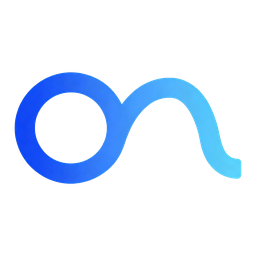
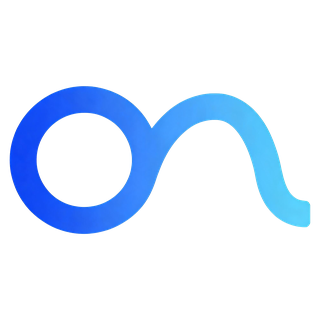
fix(app): air out boot splash with larger monogram
Grow the brand mark, drop crowded stacking, and use a quiet three-dot
progress line instead of the 3x3 ticker on the full-screen boot surface.

diff --git a/apps/app/index.html b/apps/app/index.html
@@ -36,19 +36,22 @@
       body { background: #fff; color: #0f172a; font-family: "IBM Plex Sans", -apple-system, BlinkMacSystemFont, "Segoe UI", sans-serif; }
       html[data-theme="dark"] body { background: #2c2c2c; color: #f8fafc; }
       .onmyagent-static-boot { position: fixed; inset: 0; z-index: 1000; display: flex; align-items: center; justify-content: center; background: inherit; }
-      .onmyagent-static-boot__content { display: flex; width: 100%; max-width: 22rem; flex-direction: column; align-items: center; gap: 1.5rem; padding: 2rem; text-align: center; }
-      /* Bare monogram — no tile border/shadow so the mark reads larger. */
-      .onmyagent-static-boot__mark { display: flex; width: 5.5rem; height: 5.5rem; align-items: center; justify-content: center; border: 0; border-radius: 0; background: transparent; box-shadow: none; }
-      html[data-theme="dark"] .onmyagent-static-boot__mark { border: 0; background: transparent; box-shadow: none; }
-      .onmyagent-static-boot__title { font-size: .875rem; font-weight: 600; letter-spacing: -.01em; }
-      .onmyagent-static-boot__status { display: flex; flex-direction: column; align-items: center; gap: .75rem; }
-      .onmyagent-static-boot__dots { display: flex; gap: .375rem; height: 1rem; align-items: center; }
-      .onmyagent-static-boot__dot { width: .375rem; height: .375rem; border-radius: 999px; background: #64748b; animation: onmyagent-static-boot-pulse 1.2s ease-in-out infinite; }
-      .onmyagent-static-boot__dot:nth-child(2) { animation-delay: .15s; }
-      .onmyagent-static-boot__dot:nth-child(3) { animation-delay: .3s; }
-      .onmyagent-static-boot__message { color: #64748b; font-size: .875rem; line-height: 1.5rem; }
-      @keyframes onmyagent-static-boot-pulse { 0%, 80%, 100% { opacity: .28; transform: scale(.8); } 40% { opacity: 1; transform: scale(1); } }
-      @media (prefers-reduced-motion: reduce) { .onmyagent-static-boot__dot { animation: none; opacity: .7; } }
+      /* Generous vertical rhythm: hero mark → product name → quiet progress */
+      .onmyagent-static-boot__content { display: flex; width: 100%; max-width: 24rem; flex-direction: column; align-items: center; gap: 2.75rem; padding: 2.5rem 2rem; text-align: center; }
+      .onmyagent-static-boot__mark { display: flex; width: 7.5rem; height: 7.5rem; align-items: center; justify-content: center; border: 0; background: transparent; box-shadow: none; }
+      html[data-theme="dark"] .onmyagent-static-boot__mark { background: transparent; }
+      .onmyagent-static-boot__status { display: flex; flex-direction: column; align-items: center; gap: 1.25rem; }
+      .onmyagent-static-boot__title { font-size: 1.0625rem; font-weight: 600; letter-spacing: -.02em; line-height: 1.4; }
+      .onmyagent-static-boot__progress { display: flex; flex-direction: column; align-items: center; gap: .875rem; }
+      .onmyagent-static-boot__dots { display: flex; gap: .5rem; height: .75rem; align-items: center; }
+      .onmyagent-static-boot__dot { width: .3125rem; height: .3125rem; border-radius: 999px; background: #94a3b8; animation: onmyagent-static-boot-pulse 1.35s ease-in-out infinite; }
+      .onmyagent-static-boot__dot:nth-child(2) { animation-delay: .18s; }
+      .onmyagent-static-boot__dot:nth-child(3) { animation-delay: .36s; }
+      .onmyagent-static-boot__message { color: #94a3b8; font-size: .8125rem; line-height: 1.25rem; letter-spacing: .01em; }
+      html[data-theme="dark"] .onmyagent-static-boot__dot { background: #6b7280; }
+      html[data-theme="dark"] .onmyagent-static-boot__message { color: #9ca3af; }
+      @keyframes onmyagent-static-boot-pulse { 0%, 80%, 100% { opacity: .22; transform: scale(.85); } 40% { opacity: 1; transform: scale(1); } }
+      @media (prefers-reduced-motion: reduce) { .onmyagent-static-boot__dot { animation: none; opacity: .55; } }
     </style>
   </head>
   <body class="bg-dls-surface text-dls-text mac:bg-transparent">
@@ -60,17 +63,19 @@
           <!-- Compact brand monogram (not the 2k product logo) for first paint. -->
           <img
             src="/onmyagent-boot-mark.png"
-            width="72"
-            height="72"
+            width="112"
+            height="112"
             alt=""
             draggable="false"
-            style="display:block;width:4.5rem;height:4.5rem;object-fit:contain"
+            style="display:block;width:6.5rem;height:6.5rem;object-fit:contain"
           />
         </div>
         <div class="onmyagent-static-boot__status">
           <div class="onmyagent-static-boot__title">OnMyAgent</div>
-          <div class="onmyagent-static-boot__dots" aria-hidden="true"><span class="onmyagent-static-boot__dot"></span><span class="onmyagent-static-boot__dot"></span><span class="onmyagent-static-boot__dot"></span></div>
-          <div class="onmyagent-static-boot__message">Starting OnMyAgent…</div>
+          <div class="onmyagent-static-boot__progress">
+            <div class="onmyagent-static-boot__dots" aria-hidden="true"><span class="onmyagent-static-boot__dot"></span><span class="onmyagent-static-boot__dot"></span><span class="onmyagent-static-boot__dot"></span></div>
+            <div class="onmyagent-static-boot__message">Starting OnMyAgent…</div>
+          </div>
         </div>
       </div>
     </div>

diff --git a/apps/app/src/react-app/shell/load-surface.tsx b/apps/app/src/react-app/shell/load-surface.tsx
@@ -27,15 +27,19 @@ const surfaceClass = {
   fullVisible: "pointer-events-auto opacity-100",
   fullFading: "pointer-events-none opacity-0",
   inset: "flex min-h-[12rem] w-full items-center justify-center py-10",
+  // Hero monogram + airy stack (not a cramped loading card).
   content:
-    "flex w-full max-w-[22rem] flex-col items-center gap-6 px-8 text-center",
+    "flex w-full max-w-[24rem] flex-col items-center gap-11 px-8 text-center",
   contentInset: "flex flex-col items-center",
-  // Bare monogram (no rounded tile / border / shadow) — larger visual weight.
-  brandMark: "flex size-[5.5rem] items-center justify-center bg-transparent",
-  brandTitle: "text-sm font-semibold tracking-tight text-dls-text",
-  message: "text-sm leading-6 text-dls-secondary",
+  brandMark: "flex size-[7.5rem] items-center justify-center bg-transparent",
+  brandTitle:
+    "text-[1.0625rem] font-semibold tracking-tight text-dls-text",
+  message: "text-[0.8125rem] leading-5 tracking-wide text-dls-secondary/90",
   messageInset: "mt-3 text-xs leading-5 text-dls-secondary",
-  statusRow: "flex flex-col items-center gap-3",
+  statusRow: "flex flex-col items-center gap-5",
+  progressRow: "flex flex-col items-center gap-3.5",
+  bootDots: "flex h-3 items-center gap-2",
+  bootDot: "ow-dot-ticker size-[0.3125rem] rounded-full bg-dls-secondary/55",
 };
 
 /** Solid boot fill — independent of vibrancy tokens. */
@@ -96,12 +100,23 @@ function BootBrandMark() {
       {/* Compact monogram — avoid decoding the large product logo PNG. */}
       <img
         src="/onmyagent-boot-mark.png"
-        width={72}
-        height={72}
+        width={112}
+        height={112}
         alt=""
         draggable={false}
-        className="size-[4.5rem] object-contain"
+        className="size-[6.5rem] object-contain"
       />
+    </div>
+  );
+}
+
+/** Quiet three-dot pulse — calmer than the 3×3 grid on a full-screen splash. */
+function BootProgressDots() {
+  return (
+    <div className={surfaceClass.bootDots} aria-hidden="true">
+      <span className={surfaceClass.bootDot} style={{ animationDelay: "0s" }} />
+      <span className={surfaceClass.bootDot} style={{ animationDelay: "0.2s" }} />
+      <span className={surfaceClass.bootDot} style={{ animationDelay: "0.4s" }} />
     </div>
   );
 }
@@ -135,8 +150,10 @@ export function LoadSurface(props: LoadSurfaceProps) {
           <BootBrandMark />
           <div className={surfaceClass.statusRow}>
             <div className={surfaceClass.brandTitle}>{APP_NAME}</div>
-            <OwDotTicker size={size} className="text-dls-secondary" />
-            <div className={surfaceClass.message}>{message}</div>
+            <div className={surfaceClass.progressRow}>
+              <BootProgressDots />
+              <div className={surfaceClass.message}>{message}</div>
+            </div>
           </div>
           {props.children}
         </div>
